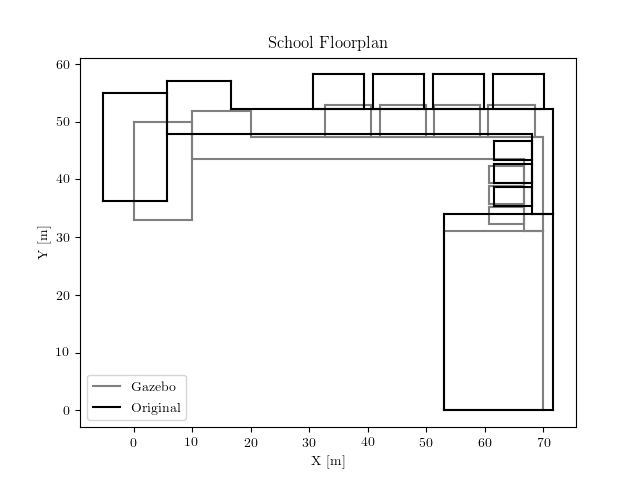
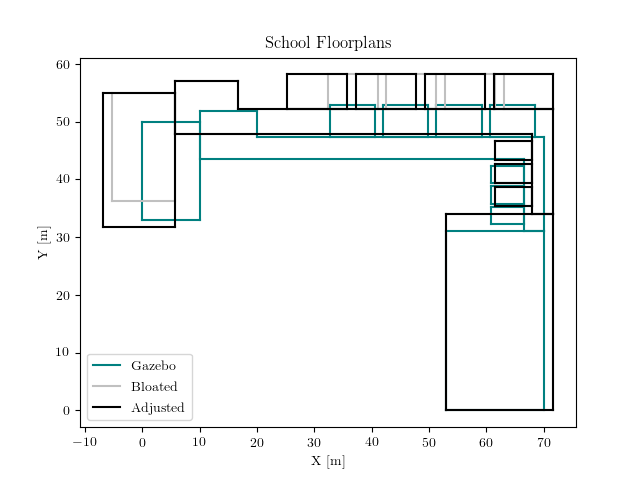
graphs new

diff --git a/scenes/make_graph.py b/scenes/make_graph.py
@@ -10,7 +10,8 @@ plt.rcParams.update({'text.usetex': True})
 plt.rcParams.update({'font.family': 'serif'})
 
 
-a = 1.1
+a_x = 1.1
+
 
 # scenarios
 def ss_1():
@@ -70,7 +71,7 @@ def ss_1():
     return school
 
 
-def ss_2(bloat=False):
+def ss_2(bloat=False, adjusted=True):
     """Parameters of the School Scenario [floor plan, no origin]
         MyRoom(label, dim, c0=None, door=None)
         label: str
@@ -85,13 +86,16 @@ def ss_2(bloat=False):
            (7.9, 5.5), (7.9, 5.5), (7.9, 5.5), (7.9, 5.5), (10, 17), (60-10, 3.9), (10, 8.3)]
 
     if bloat:
-        dim_b = [(a * el[0], a * el[1]) for el in dim]
-        # manual corrections
-        dim_b[6] = (a * (7.9 + 1.6), a * 5.5)
-        dim_b[7] = (a * (7.9 + 1.6), a * 5.5)
-        dim_b[8] = (a * (7.9 + 1.6), a * 5.5)
-        dim_b[9] = (a * (7.9 + 1.6), a * 5.5)
-        dim_b[10] = (a * (10+1.5), (a * 17) + 4.5)
+        dim_b = [(a_x * el[0], a_x * el[1]) for el in dim]
+
+        if adjusted:
+            # manual corrections
+            dim_b[6] = (a_x * (7.9 + 1.6), a_x * 5.5)
+            dim_b[7] = (a_x * (7.9 + 1.6), a_x * 5.5)
+            dim_b[8] = (a_x * (7.9 + 1.6), a_x * 5.5)
+            dim_b[9] = (a_x * (7.9 + 1.6), a_x * 5.5)
+            dim_b[10] = (a_x * (10 + 1.5), (a_x * 17) + 4.5)
+
         dim = [(round(el[0], 2), round(el[1], 2)) for el in dim_b]
 
     school = ext.create_dict(room_list, None)
@@ -132,13 +136,8 @@ def delta_origin(bloat=False):
     x_gym = 17
     y_cafe = 1.8
 
-    if bloat:
-        dx = 53 # 5.5
-        dy = 0 #-19
-    else:
-        # how did I find this out?
-        dy = 0
-        dx = x_cafe + x_hall - x_gym
+    dx = x_cafe + x_hall - x_gym
+    dy = 0
 
     return dx, dy
 
@@ -152,8 +151,8 @@ def space_between(bloat=False):
     x = [1.5, 1.4, 1.4, 1.4]
 
     if bloat:
-        y_b = [a*el for el in y]
-        x_b = [a*el for el in x]
+        y_b = [a_x * el for el in y]
+        x_b = [a_x * el for el in x]
         x_b[0] = 0
         x, y = x_b, y_b
 
@@ -179,7 +178,7 @@ def place_ss2(school_g=ss_2(), bloat=False):
 
     dc = 1.8
     if bloat:
-        dc = dc*1.1
+        dc = dc * a_x
 
     gym = school_g[1]
     h1 = school_g[2]
@@ -294,9 +293,9 @@ def save_coord_ss2(bloat=False):
     ff.make_txt_str(f_name, coord_list, line1, line2)
 
 
-def build_school(bloat=False):
+def build_school(bloat=False, adjusted=False):
     # floorplan
-    school_g = ss_2(bloat)
+    school_g = ss_2(bloat, adjusted)
     # place in space (delta origin)
     school_block = place_ss2(school_g, bloat)
     # merge halls for nice plotting
@@ -498,15 +497,16 @@ def finish_plot(op='all', lgd=None, my_ext='.png'):
         fig_name = 'graph'
 
     elif op == 'both':
-        plt.title('School Floorplan')
+        plt.title('School Floorplans')
         fig_name = 'bloated_school'
         if lgd is not None:
-            gazebo = mlines.Line2D([], [], color='gray', label=lgd[0])
-            bloat = mlines.Line2D([], [], color='k', label=lgd[1])
-            plt.legend(handles=[gazebo, bloat])
+            gazebo = mlines.Line2D([], [], color='teal', label=lgd[0])
+            bloat = mlines.Line2D([], [], color='silver', label=lgd[1])
+            adjusted = mlines.Line2D([], [], color='k', label=lgd[2])
+            plt.legend(handles=[gazebo, bloat, adjusted])
 
     elif op == 'mis':
-        plt.title('School Floorplan')
+        plt.title('School Positioning')
         fig_name = 'school_aligning'
         if lgd is not None:
             origin = mlines.Line2D([], [], color='gray', label=lgd[0])
@@ -514,7 +514,7 @@ def finish_plot(op='all', lgd=None, my_ext='.png'):
             robot = mlines.Line2D([], [], color='b', label=lgd[2])
             robot0 = mlines.Line2D([], [], color='c', label=lgd[4])
             pt = mlines.Line2D([], [], color='r', label=lgd[3])
-            plt.legend(handles=[origin, school, robot, robot0, pt])
+            plt.legend(handles=[origin, school, robot, robot0, pt], loc=3)
 
     elif op == 'align':
         plt.title('School Floorplan\n[from robot pose 1:1]')
@@ -523,6 +523,13 @@ def finish_plot(op='all', lgd=None, my_ext='.png'):
             school = mlines.Line2D([], [], color='k', label=lgd[0])
             robot = mlines.Line2D([], [], color='b', label=lgd[1])
             plt.legend(handles=[school, robot])
+
+    elif op == 'pose_school':
+        plt.title('School Floorplan')
+        fig_name = 'school_pose'
+        school = mlines.Line2D([], [], color='k', label=lgd[0])
+        robot = mlines.Line2D([], [], color='b', label=lgd[1])
+        plt.legend(handles=[school, robot])
 
     save_plot(fig_name, folder, my_ext)
 
@@ -538,25 +545,26 @@ def plot_all(bloat=False):
     edges = True
     plot_graph(bloat, numbers, edges)
 
-    # POSE
-    # plot_pose()
     lgd = ['Floorplan', 'Graph']
 
     if bloat:
-        op = 'all'
+        # POSE
+        f_name = 'School_RPose_Translated'
+        plot_pose(f_name)
         lgd.append('Robot Pose')
+        op = 'all'
     else:
         op = 'all_gazebo'
 
     finish_plot(op, lgd)
 
 
-def plot_pose(f_name=None, finish=False, color='b-'):
+def plot_pose(f_name='School_RPose', finish=False, color='b-'):
     """Plot robot pose as extracted from csv file"""
 
-    if f_name is None:
+    if isinstance(f_name, str):
         # get pose info
-        RPose = ff.get_info('School_RPose', 'R')
+        RPose = ff.get_info(f_name, 'R')
     else:
         RPose = f_name
 
@@ -606,20 +614,29 @@ def plot_graph(bloat=False, number=False, edges=True, finish=False):
         finish_plot('graph')
 
 
-def plot_ss2(bloat=False, finish=False, my_color='k'):
+def plot_ss2(bloat=False, adjusted=True, my_color='k'):
     """Plot school scenario (floorplan only)"""
     # set up scenario
-    school = build_school(bloat)
+    school = build_school(bloat, adjusted)
     # school floor plan
     wall_nodes, wall_conn = wall_nodes_connections(school)
 
     # plot floor plan
     plot_points_between_list(wall_nodes, wall_conn, my_color)
 
-    if finish:
-        finish_plot('school')
-
     return school
+
+
+def plot_mismatch():
+    # gazebo
+    plot_ss2()
+    # translated pose
+    f_name = 'School_RPose_Translated'
+    plot_pose(f_name)
+
+    op = 'pose_school'
+    lgd = ['Gazebo', 'Robot']
+    finish_plot(op, lgd)
 
 
 def align_pose_school():
@@ -632,9 +649,9 @@ def align_pose_school():
 
     # SCHOOL
     bloat = True
-    school = plot_ss2(bloat, False)
+    school = plot_ss2(bloat)
     # floorplan detail - gym door
-    xy_door = (school[1].c1[0], school[1].c1[1] + a*(2+0.9)+0.5)
+    xy_door = (school[1].c1[0], school[1].c1[1] + a_x * (2 + 0.9) + 0.5)
     # and robot POSE
     plot_pose(pose_raw, False, 'c')
     # plot intersection points
@@ -659,26 +676,95 @@ def align_pose_school():
     finish_plot('mis', lgd)
 
 
-def plot_floor_pose_graph():
-    """Plot bloated school with robot's motion"""
-
-    # School
-    bloat = True
-    school = plot_ss2(bloat, False)
-    pose_trans = ff.get_info('School_RPose_Translated', 'R')
-    plot_pose(pose_trans, False, 'blue')
-
-    lgd = ['School', 'Robot Pose']
-    finish_plot('align', lgd)
-
-
 def plot_both_ss2():
 
-    plot_ss2(False, False, 'gray')
+    plot_ss2(False, False, 'teal')
 
-    plot_ss2(True, False)
+    plot_ss2(True, False, 'silver')
 
-    finish_plot('both', ['Gazebo', 'Original'])
+    plot_ss2(True, True, 'black')
+
+    finish_plot('both', ['Gazebo', 'Bloated', 'Adjusted'])
+
+
+def compute_for_mesh():
+
+    school = place_ss2()
+
+    dc = 1.8
+
+    gym = school[1]
+    h1 = school[2]
+    h2 = school[11]
+    h3 = school[12]
+    a, b, c = school[3], school[4], school[5]
+    d, e, f, g = school[6], school[7], school[8], school[9]
+    cafe = school[10]
+
+    print('cafe dimensions: %s' % str(cafe.dim))
+    print('Hall 3 dimensions: %s' % str(h3.dim))
+    # slide h3 wrt cafe
+    dy_up = cafe.dim[1] + dc - h3.dim[1]
+    door_cafe = h2.dim[1]/2
+    print('Attach cafe-h3: %s, %s' %(str(dy_up), str(door_cafe)))
+
+    # stairs
+    print('H2A dimensions (%s, %s)' % (str(h2.dim[1]), str(12.0)))
+    print('H2A attach (%s, %s)' % (str(0.0), str(h2.dim[1]/2)))
+
+    # classrooms G-F
+    h2G_x = round(f.c1[0]-g.c1[0], 2)
+    h2G_y = h2.dim[1]
+    print('H2G dimensions (%s, %s)' % (str(h2G_x), str(h2G_y)))
+
+    # classrooms F-E
+    h2F_x = round(e.c1[0]-f.c1[0], 2)
+    h2F_y = h2.dim[1]
+    print('H2F dimensions (%s, %s)' % (str(h2F_x), str(h2F_y)))
+    print('H2F dimensions (%s, %s)' % (str(h2F_x), str(h2F_y)))
+
+    # classrooms E-D
+    h2E_x = round(d.c1[0]-e.c1[0], 2)
+    h2E_y = h2.dim[1]
+    print('H2E dimensions (%s, %s)' % (str(h2E_x), str(h2E_y)))
+
+    # classrooms D-end
+    h2D_x = round(h2.c3[0] - d.c1[0], 2)
+    h2D_y = h2.dim[1]
+    print('H2D dimensions (%s, %s)' % (str(h2D_x), str(h2D_y)))
+
+    h2G_door = round(g.dim[0] - 0.8, 2)
+    h2G_D = d.dim
+    print('G-D dimensions: %s' % str(h2G_D))
+    print('H2G door %s' % str(h2G_door))
+
+    # H1
+    h1_h2D = h2D_x - h1.dim[0]
+    print('Attach H1-H2 %s' % str(h1_h2D))
+
+    # room C
+    h1C_x = h1.dim[0]
+    h1C_y = round(h1.c2[1]-c.c1[1], 2)
+    print('H1C dimensions (%s, %s)' % (str(h1C_x), str(h1C_y)))
+    h1C_door = c.dim[1]-1.05
+    print('H1C door %s' % str(h1C_door))
+
+    # room B
+    h1B_x = h1.dim[0]
+    h1B_y = round(c.c1[1] - b.c1[1], 2)
+    print('H1B dimensions (%s, %s)' % (str(h1B_x), str(h1B_y)))
+
+    # room B
+    h1A_x = h1.dim[0]
+    h1A_y = round(b.c1[1] - gym.c2[1], 2)
+    print('H1A dimensions (%s, %s)' % (str(h1A_x), str(h1A_y)))
+    h1A_att = round(a.c1[1]-gym.c2[1],2)
+    print('H1-A attach %s' % str(h1A_att))
+
+    # rooms A-B-C
+    print('Rooms A-B-C dimensions %s' % str(b.dim))
+
+    plot_all()
 
 
 if __name__ == '__main__':
@@ -687,6 +773,9 @@ if __name__ == '__main__':
     # plot_both_ss2()
     # save_coord_ss2(True)
     #
-    plot_all()
+    compute_for_mesh()
+    # align_pose_school()
+    # plot_mismatch()
+    # plot_both_ss2()
 
     # save_coord_ss2(True)

diff --git a/tests/test_ss1.py b/tests/test_ss1.py
@@ -29,7 +29,7 @@ def test_dimensions():
     spacex, spacey = mg.space_between()
 
     assert dx == 53
-    assert dy == 33
+    assert dy == 0
     assert spacex == [1.5, 1.4, 1.4, 1.4]
     assert spacey == [1.2, 0.6, 0.6]
 
